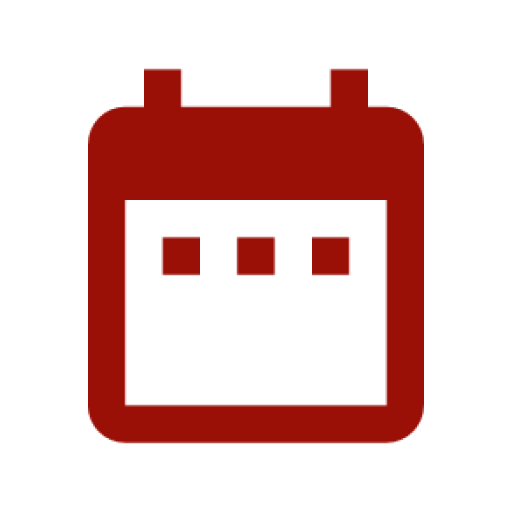
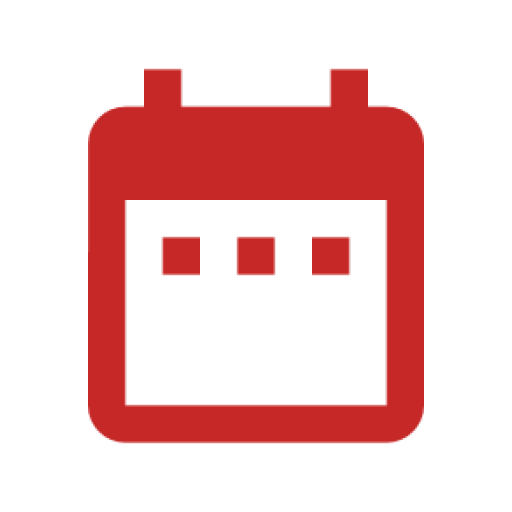
updated the design of the create order activity

diff --git a/app/src/main/java/com/angelova/w510/radixapp/menu_items/OrderActivity.java b/app/src/main/java/com/angelova/w510/radixapp/menu_items/OrderActivity.java
@@ -212,12 +212,12 @@ public class OrderActivity extends BaseActivity {
         existingFileNames = new ArrayList<>();
         selectedUris = new ArrayList<>();
 
-        final Toolbar myToolbar = (Toolbar) findViewById(R.id.toolbar_android);
+        final Toolbar myToolbar = (Toolbar) findViewById(R.id.toolbar);
         setSupportActionBar(myToolbar);
 
-        final CollapsingToolbarLayout ctl = (CollapsingToolbarLayout) findViewById(R.id.collapsingToolbarLayoutAndroidExample);
-        ctl.setTitle("Make an order");
-        ctl.setExpandedTitleColor(ContextCompat.getColor(OrderActivity.this, R.color.black_transparent));
+//        final CollapsingToolbarLayout ctl = (CollapsingToolbarLayout) findViewById(R.id.collapsingToolbarLayoutAndroidExample);
+//        ctl.setTitle("Make an order");
+//        ctl.setExpandedTitleColor(ContextCompat.getColor(OrderActivity.this, R.color.black_transparent));
 
         mCurNameRb.setText(mProfile.getName());
 
@@ -234,7 +234,7 @@ public class OrderActivity extends BaseActivity {
                     mCurNameRb.setEnabled(true);
                     mOtherNameRb.setEnabled(true);
 
-                    mOrderTypeGroup.setTintColor(ContextCompat.getColor(OrderActivity.this, R.color.menu_icons_color), Color.WHITE);
+                    mOrderTypeGroup.setTintColor(ContextCompat.getColor(OrderActivity.this, R.color.colorPrimary), Color.WHITE);
                     mExpressOrderRb.setEnabled(true);
                     mNormalOrderRb.setEnabled(true);
                 }
